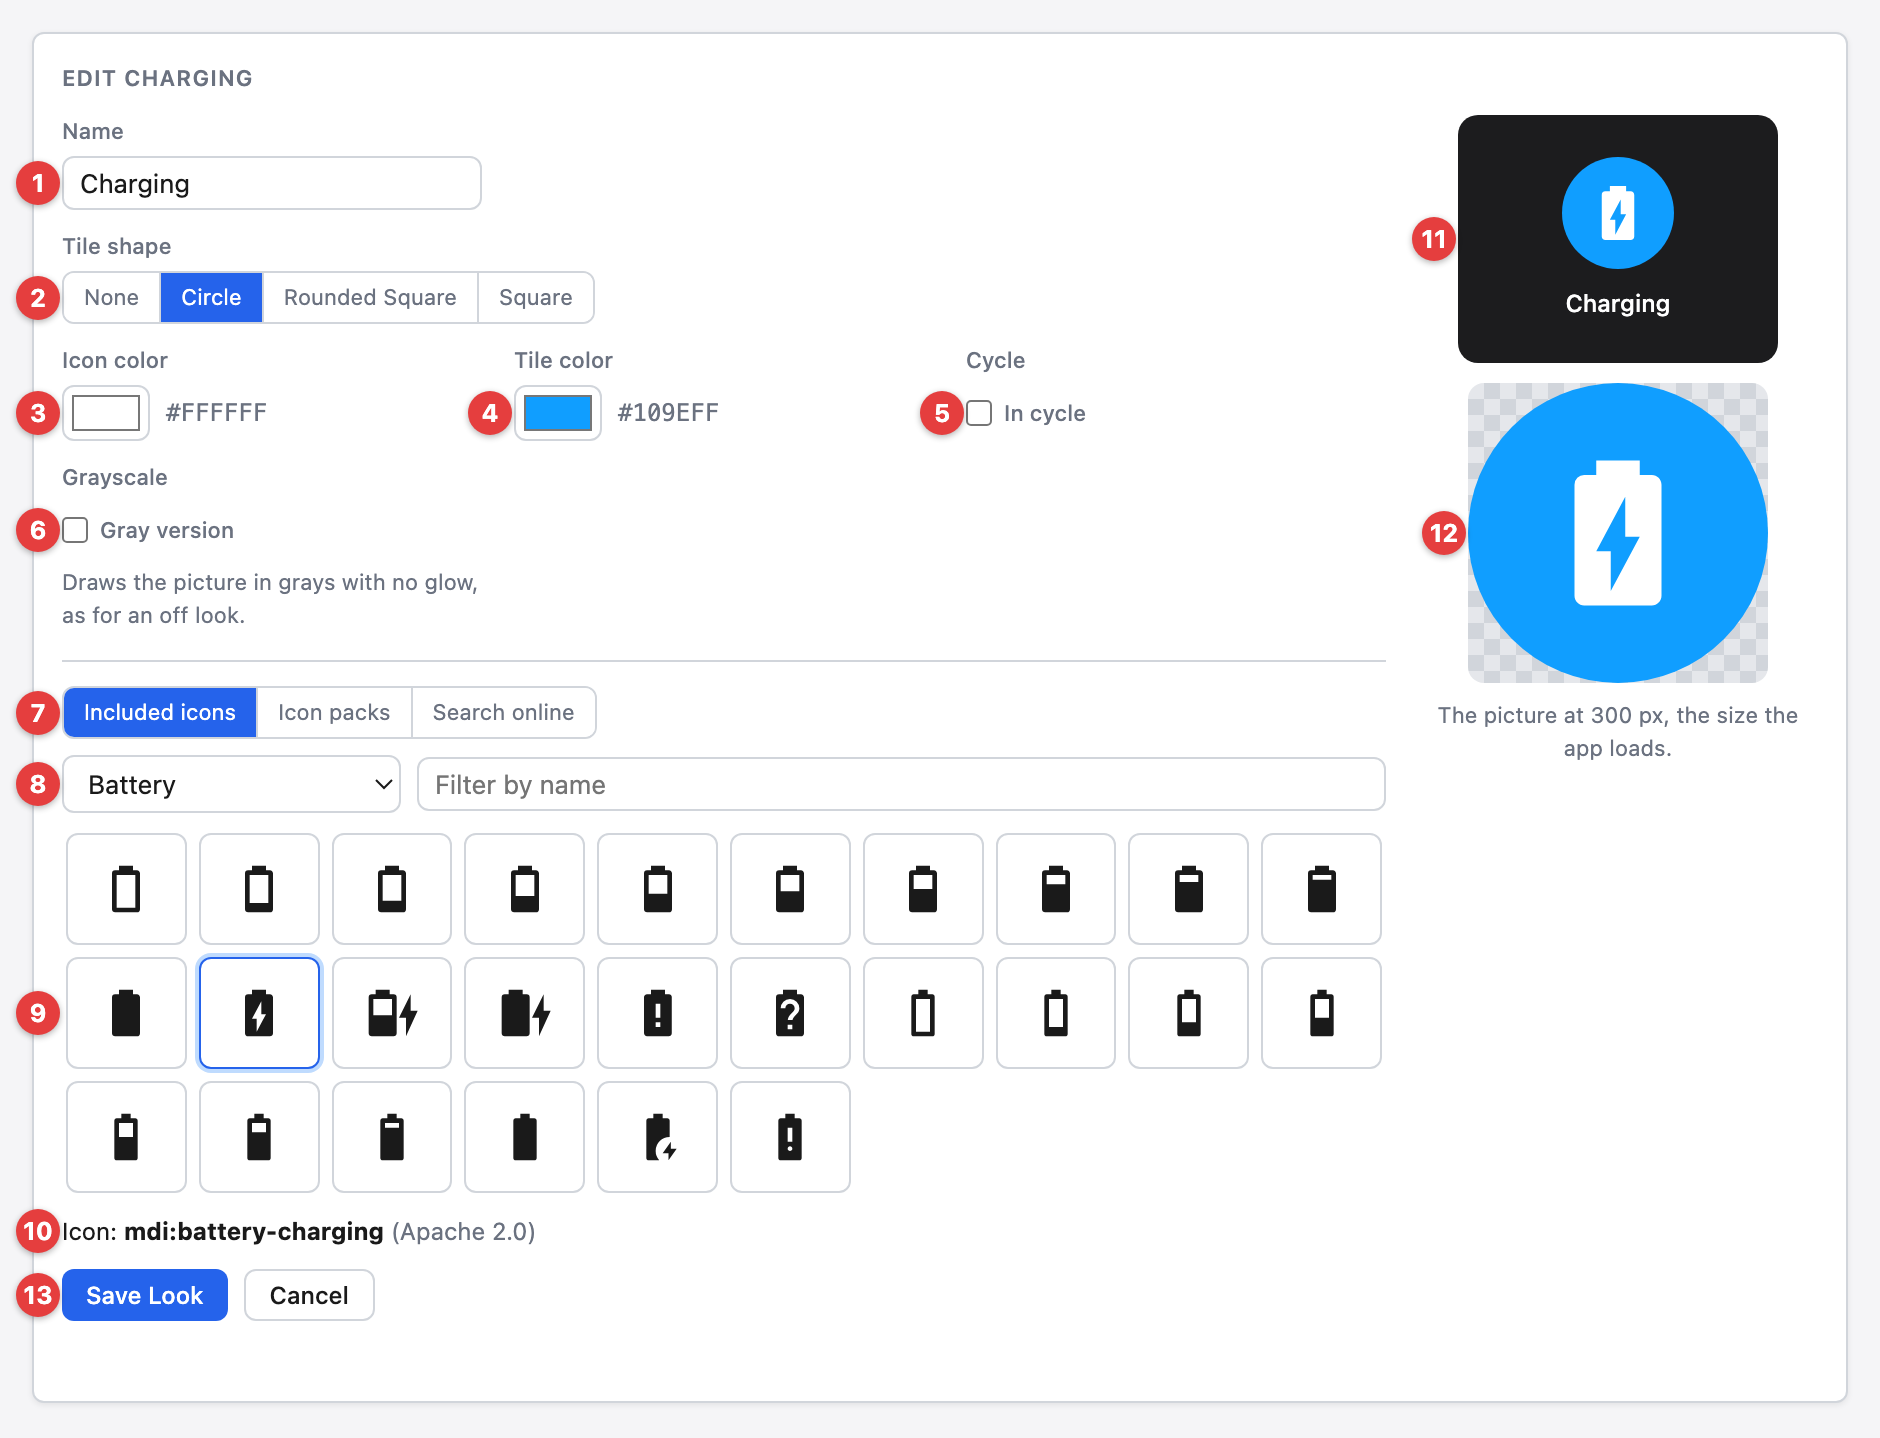
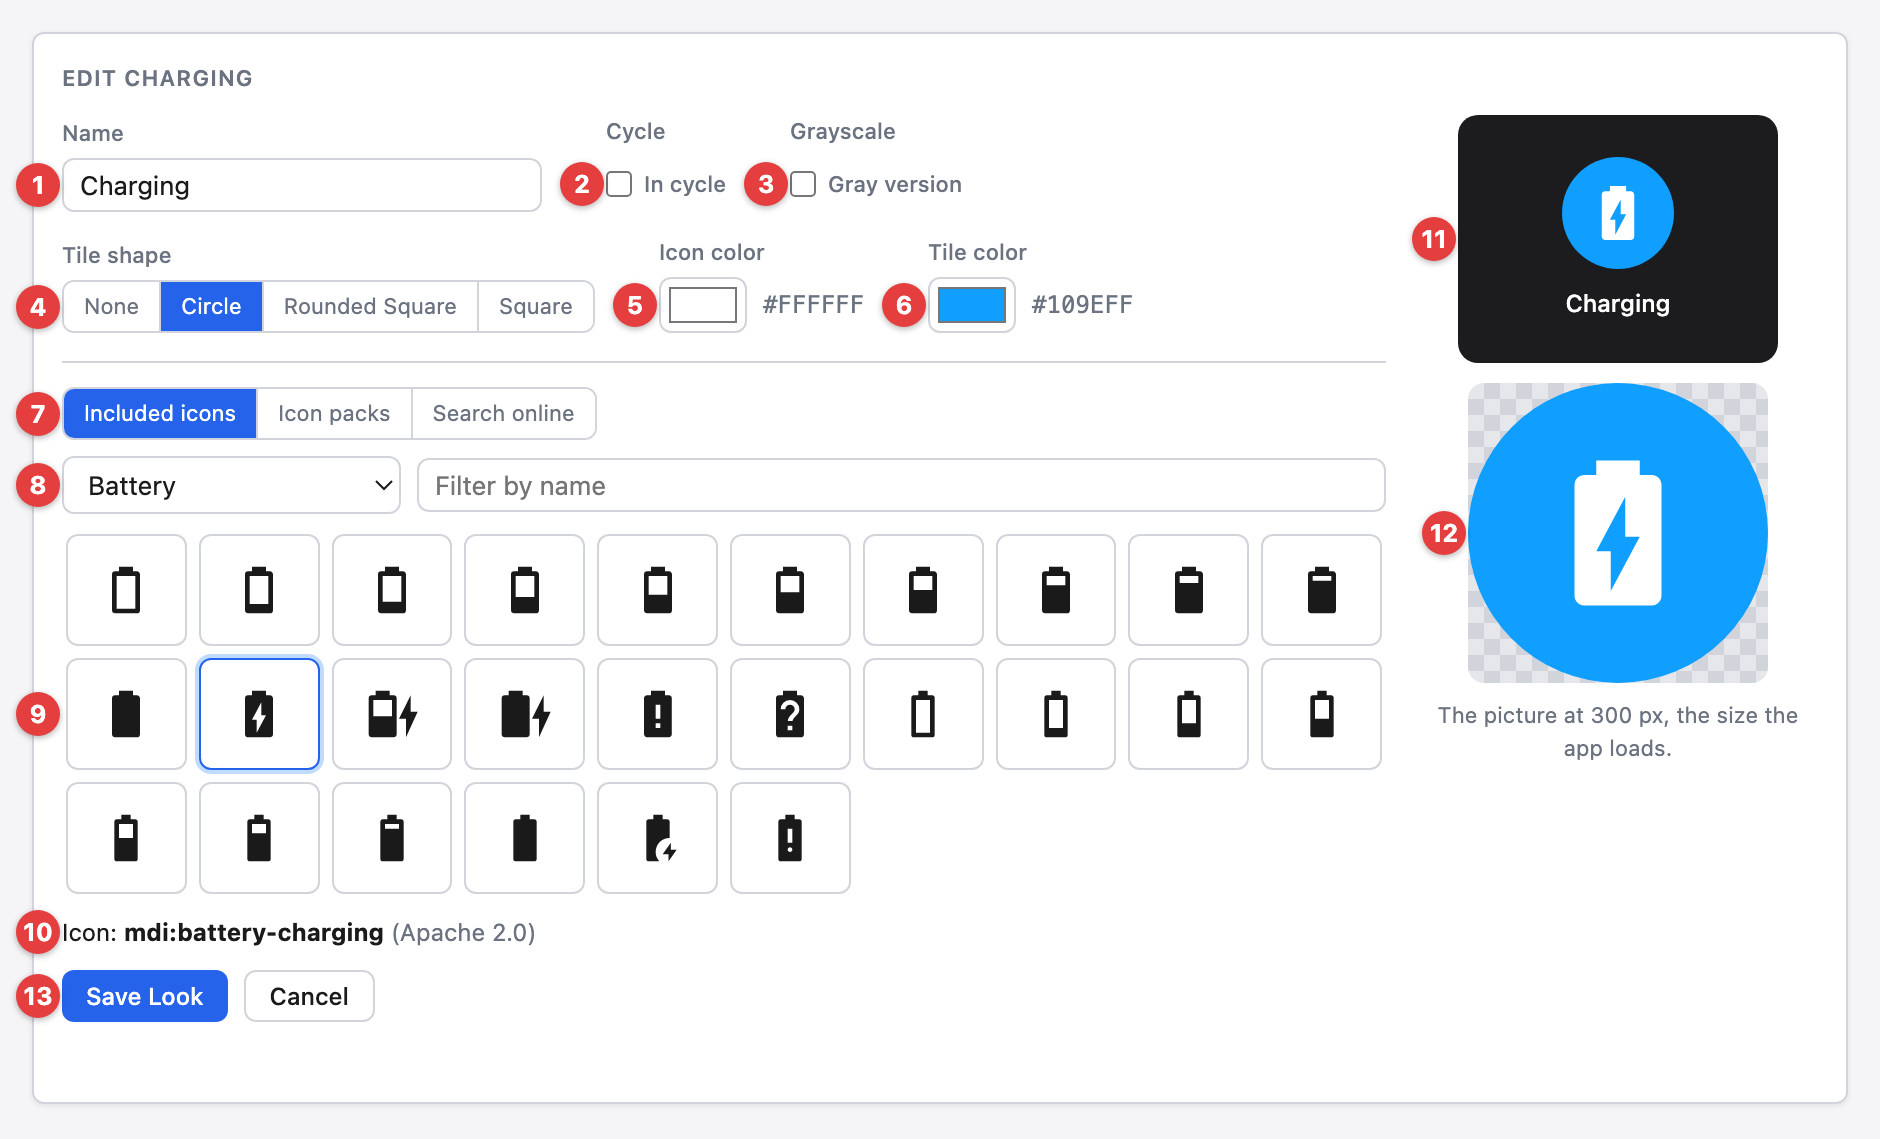
docs: the Look Editor list follows the new rows, and Glow runs to 200%

diff --git a/drivers/dynamic_button/www/documentation/index.md b/drivers/dynamic_button/www/documentation/index.md
@@ -187,16 +187,16 @@ the button's looks.
 1. **Name** - the look's name in programming: up to 40 characters, without
    commas, and different from the button's other looks. Picking an icon fills it
    in when it is empty.
-1. **Tile shape** - `None`, `Circle`, `Rounded Square` or `Square`. With `None`
-   the icon is drawn on its own, larger.
-1. **Icon color** - the color the icon is drawn in.
-1. **Tile color** - the color of the tile behind the icon.
 1. **In cycle** - when off, presses, Next Look and Previous Look pass over the
    look. Show Look can still show it.
 1. **Grayscale** - draws the picture in grays, its tile too, which gives any
    picture a gray version for an off look beside the packs' own on and off
    pictures. A gray picture has no glow, and the look keeps its `Glow` setting
    for when `Grayscale` is turned off again.
+1. **Tile shape** - `None`, `Circle`, `Rounded Square` or `Square`. With `None`
+   the icon is drawn on its own, larger, and `Tile color` is hidden.
+1. **Icon color** - the color the icon is drawn in.
+1. **Tile color** - the color of the tile behind the icon.
 1. **Included icons / Icon packs / Search online** - picks from the icons
    included with the driver, which work with no internet, from the driver's
    three icon packs (see [Icon Packs](#icon-packs)), or from the free icon packs
@@ -222,9 +222,9 @@ temperature and humidity, devices, appliances, status, home modes, holidays and
 weather. A subject with states has a picture for each: on, off and alert where
 one applies. They work with no internet.
 
-1. **Glow** - how much of the picture's own glow to draw, from none to the full
-   glow the pack gives it. It shows for the Classic Device pictures that glow,
-   and is off while `Grayscale` is on.
+1. **Glow** - the picture's glow, from none through its own at `100%` to twice
+   as strong at `200%`. It shows for the Classic Device pictures that glow, and
+   is hidden while `Grayscale` is on.
 1. **Icon packs** - shows the packs instead of the included icons.
 1. **Classic Device / Classic Tile / Modern** - the pack to show.
    `Classic Device` is shaded device pictures and `Classic Tile` is a white
@@ -236,7 +236,7 @@ one applies. They work with no internet.
    when the name is empty.
 1. **Pack note** - what the chosen pack looks like.
 1. **Picture** - a pack picture keeps its own colors, so `Tile shape`,
-   `Icon color` and `Tile color` do not apply to it, and the picture shows on a
+   `Icon color` and `Tile color` are hidden for it, and the picture shows on a
    dark background. The Classic packs add the soft shadow the OS 3 look has.
 
 ### Icon Search

diff --git a/CHANGELOG.md b/CHANGELOG.md
@@ -40,8 +40,8 @@ Template for a new release entry (copy below the heading, fill in, uncomment):
   Button tab's Icon packs view: Classic Device and Classic Tile, which match the
   OS 3 look, and Modern, which matches the X4 look, with on, off and alert
   pictures where a subject has states
-- Added Glow and Grayscale to each look: Glow sets how much of a Classic Device
-  picture's glow is drawn, and Grayscale draws any picture in grays with no
-  glow, its gray version beside the packs' own on and off pictures
+- Added Glow and Grayscale to each look: Glow sets a Classic Device picture's
+  glow from none to twice its own, and Grayscale draws any picture in grays with
+  no glow, its gray version beside the packs' own on and off pictures
 - Added the driver's properties to the Button tab, where they can be changed as
   in Composer's Properties tab, with Look Control beside the shown button
